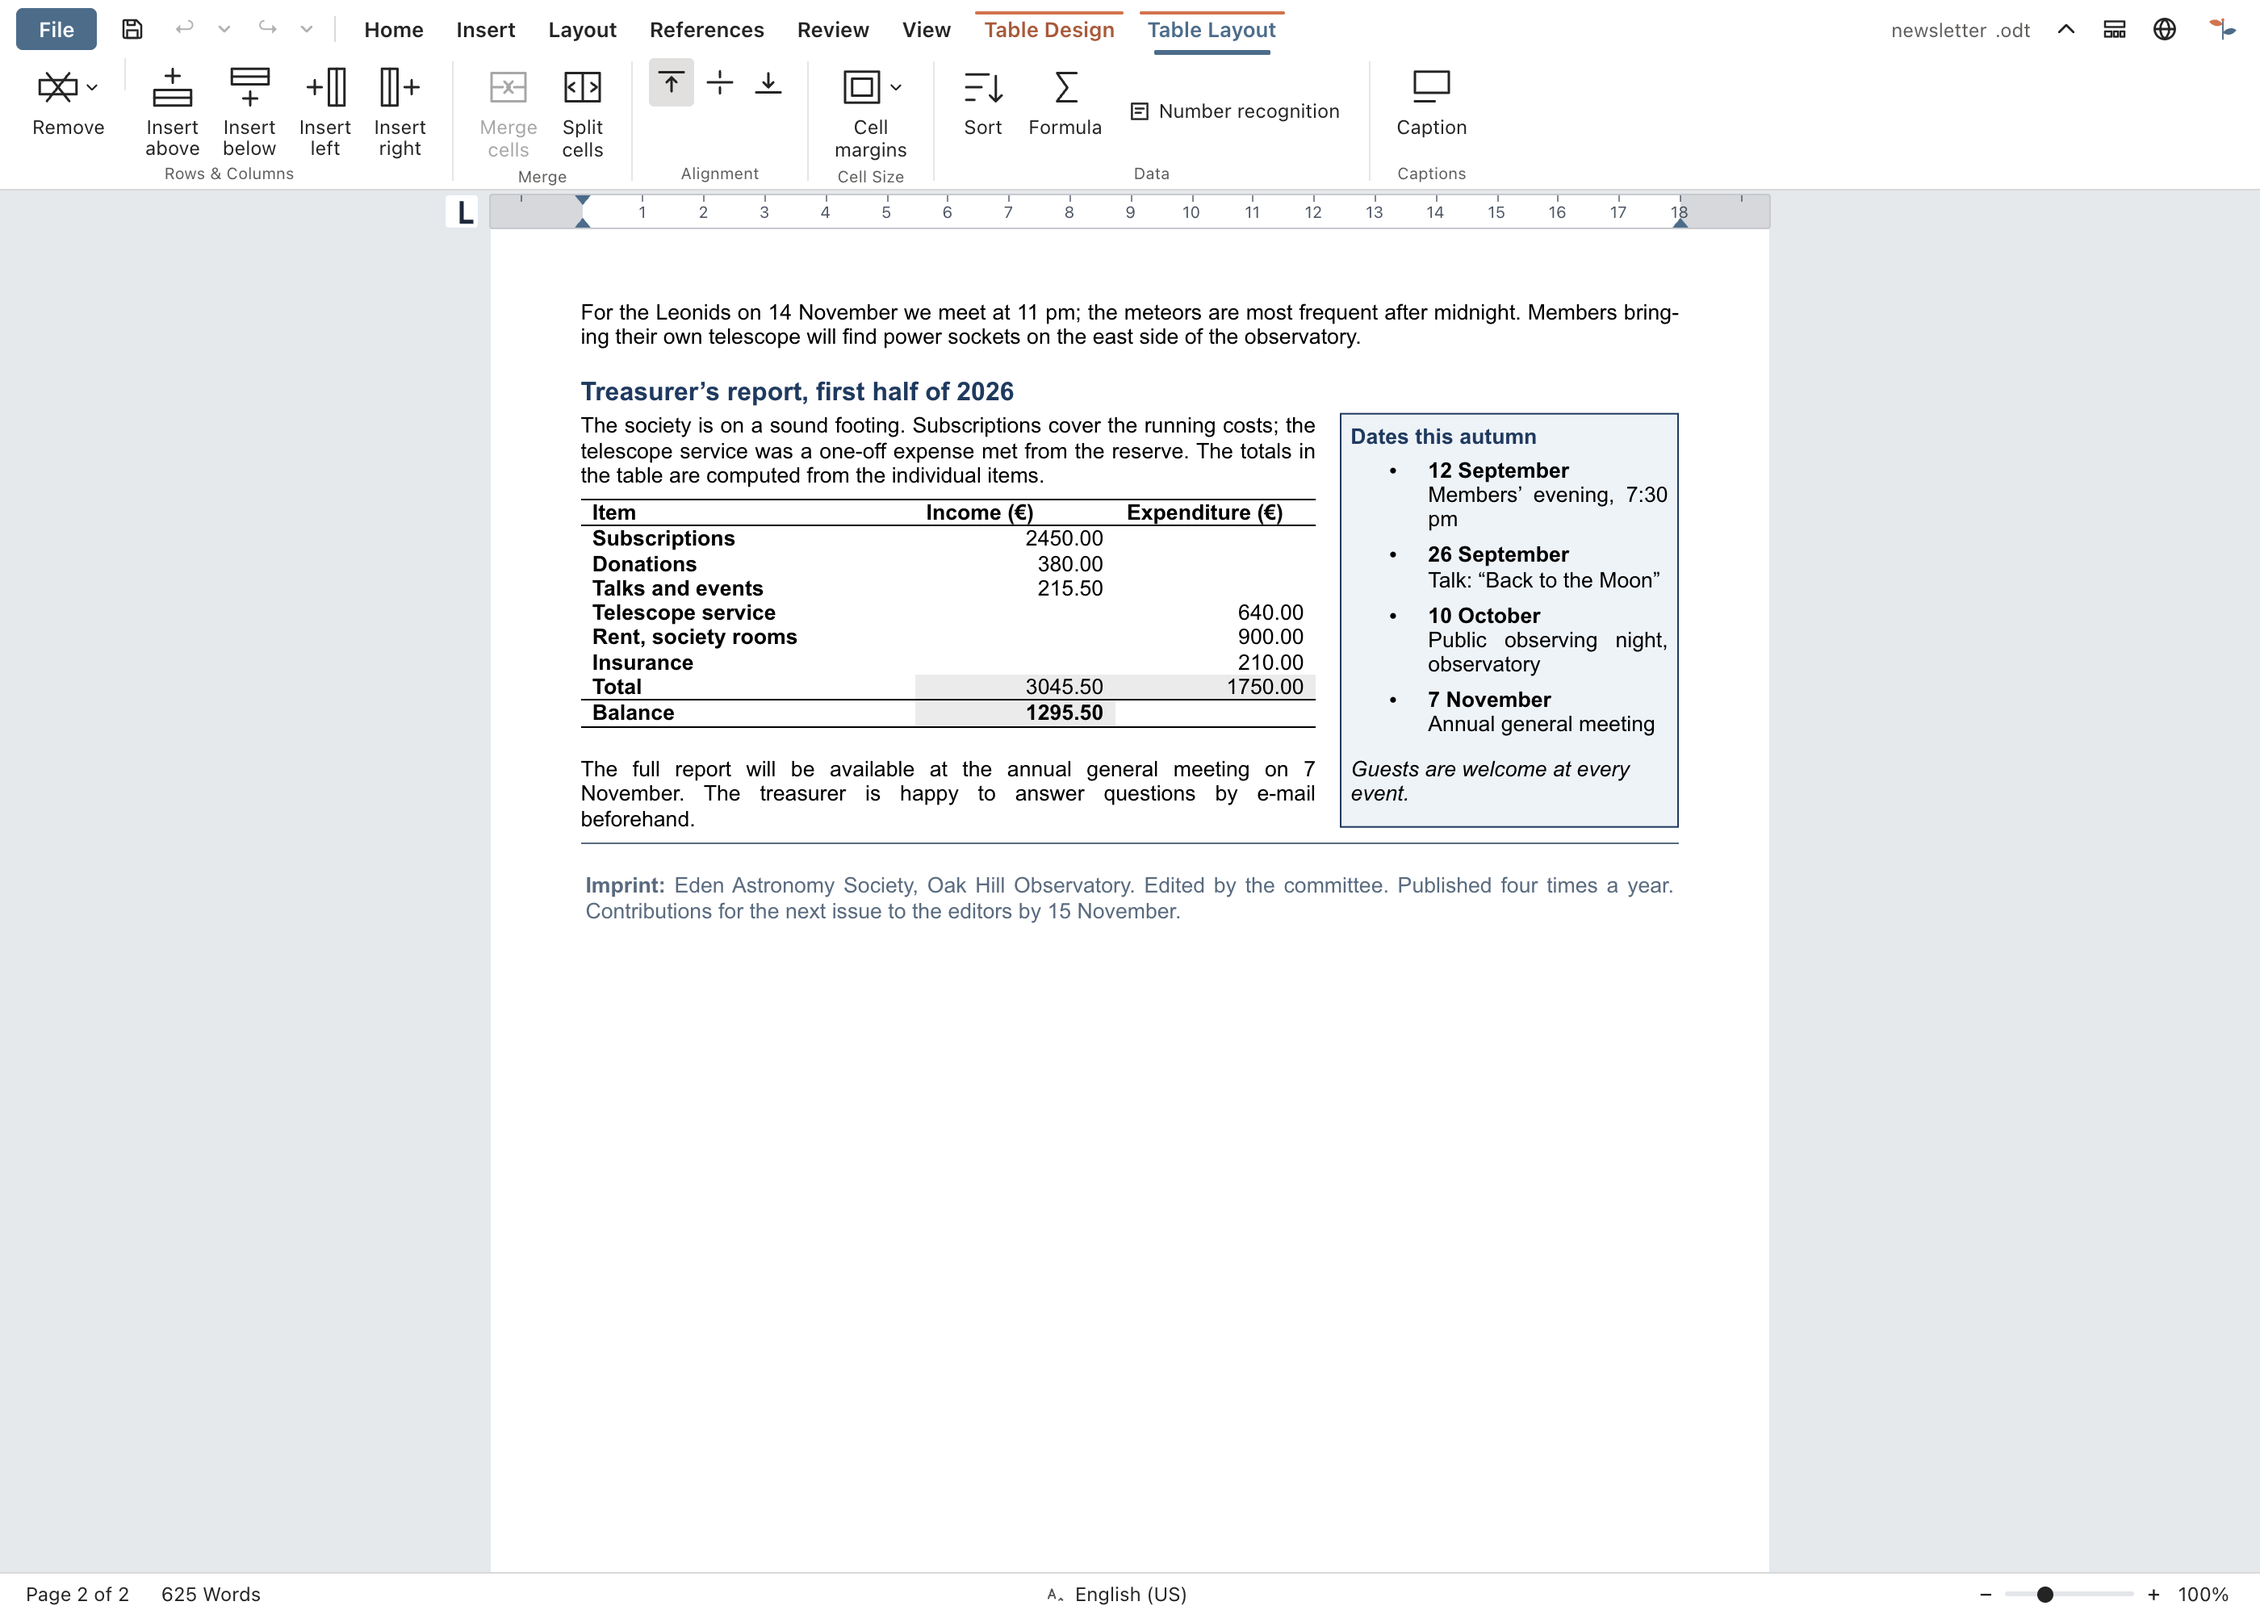
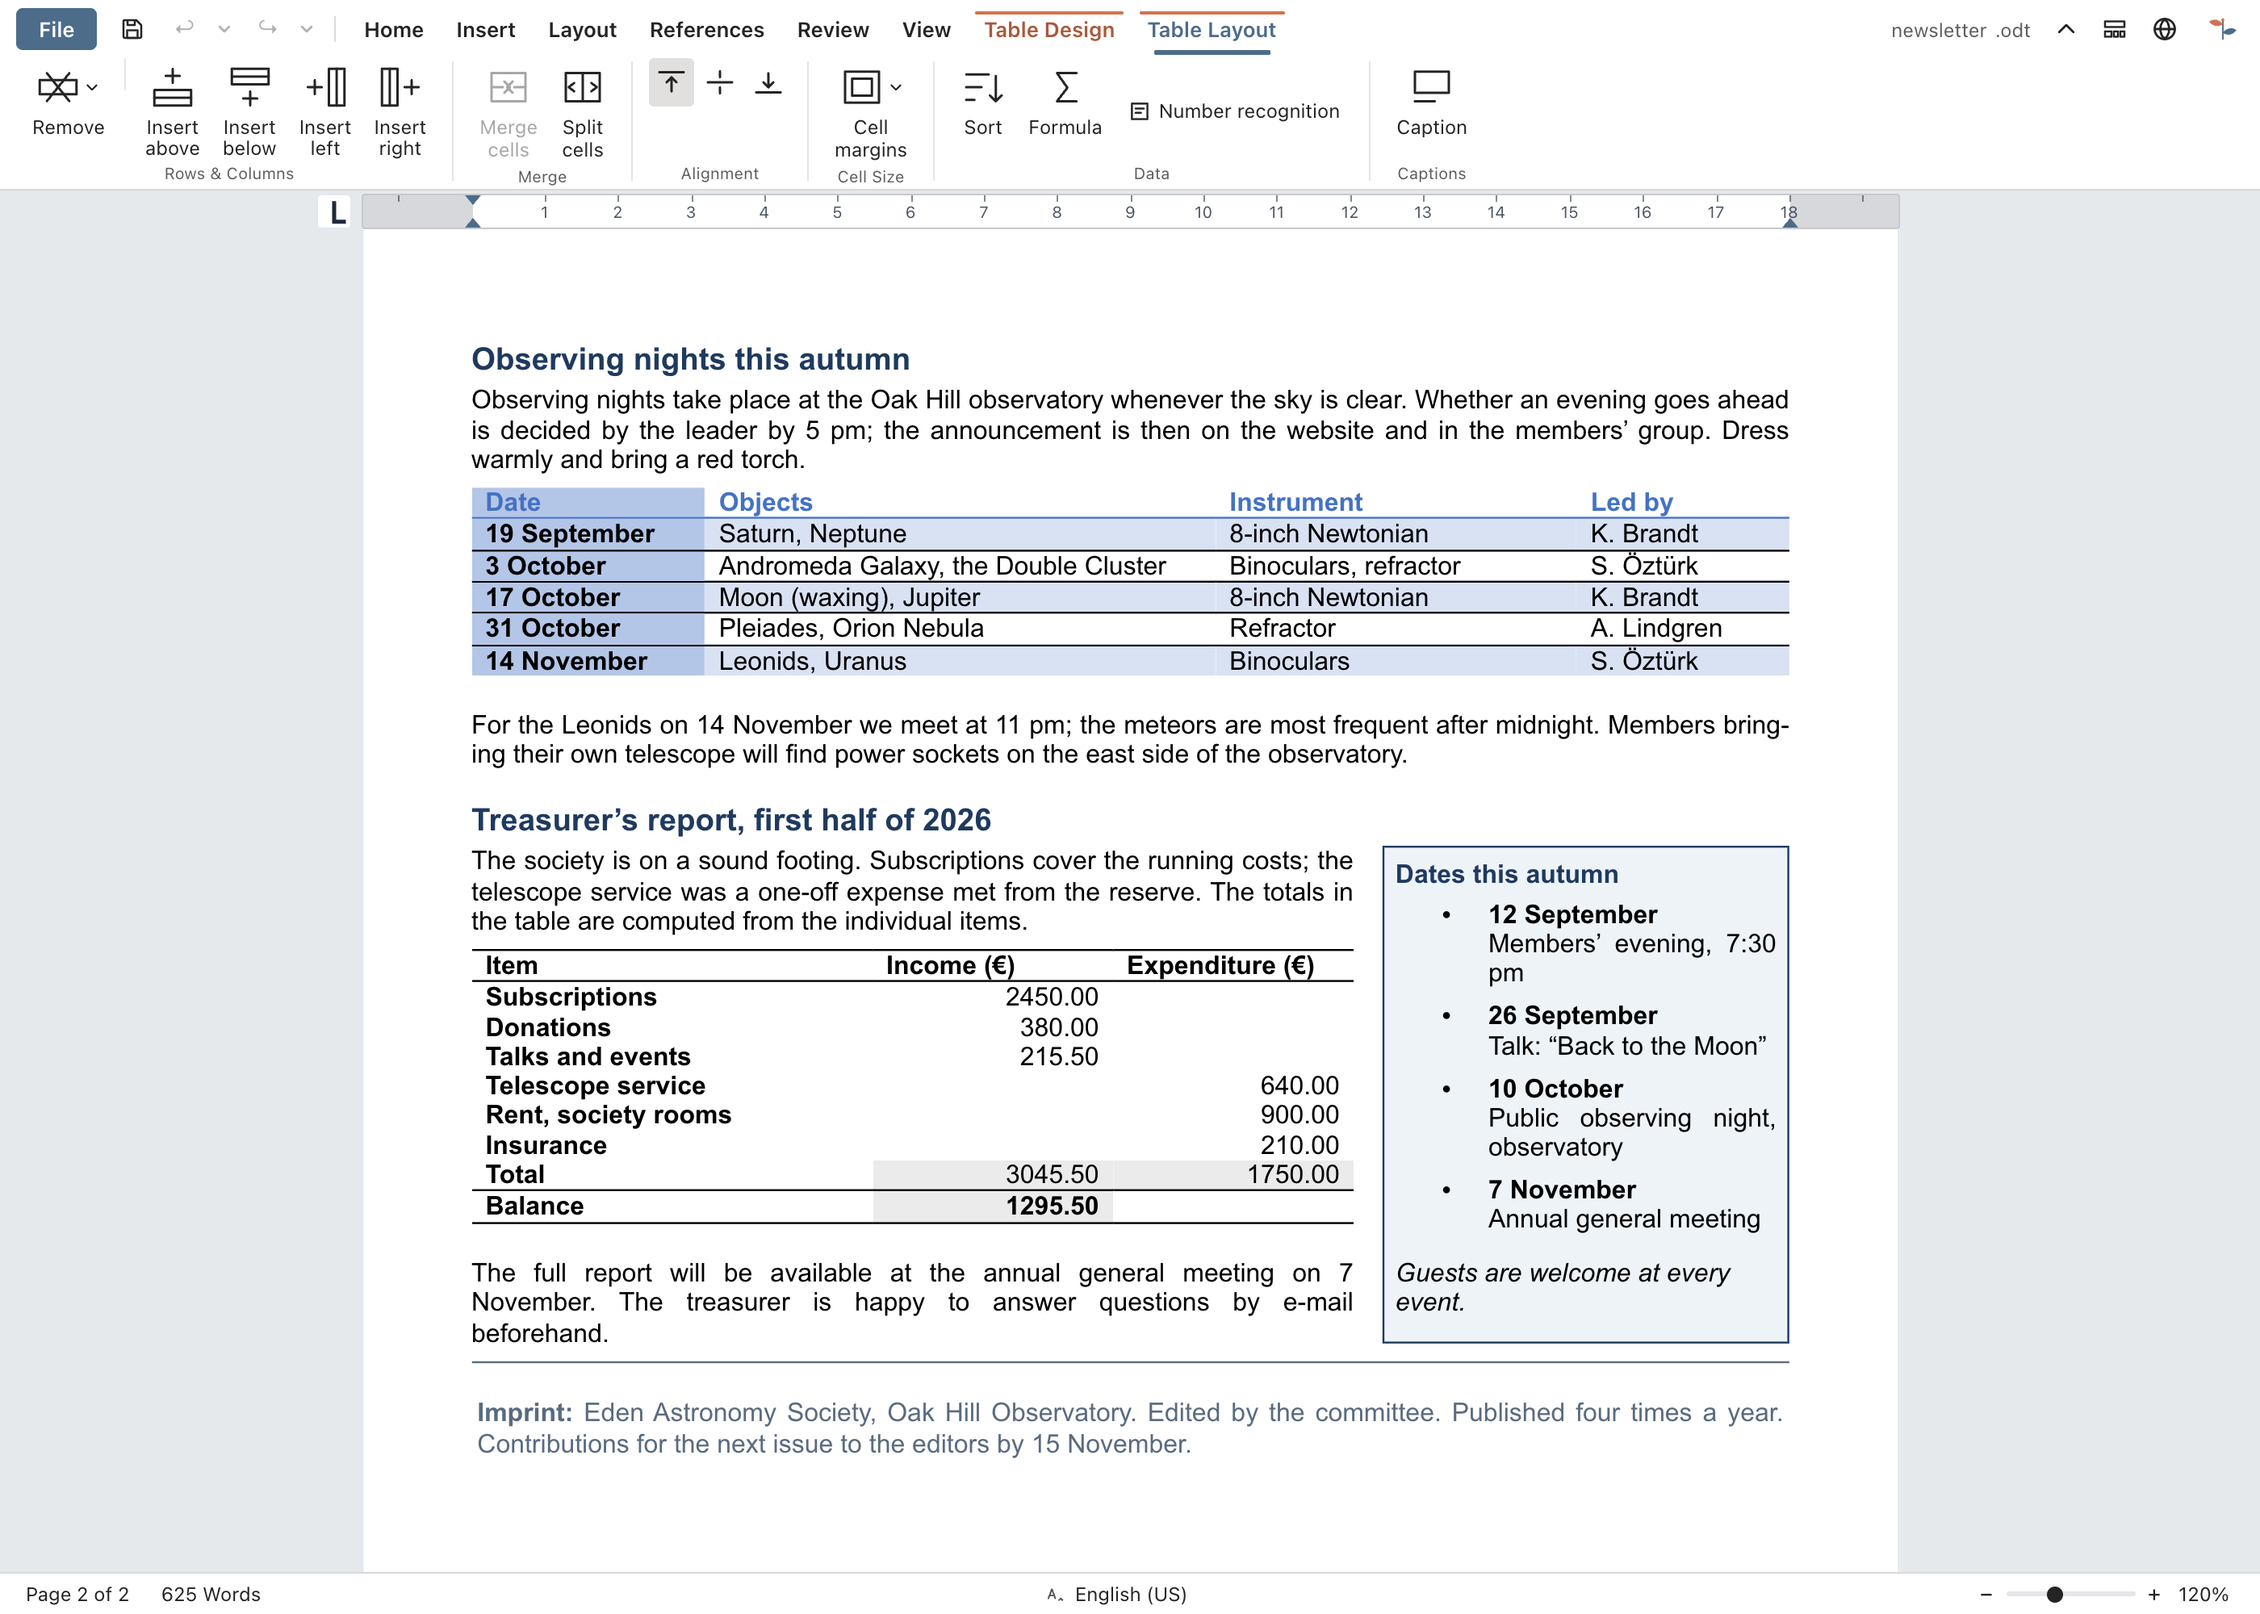
docs: the newsletter's schedule opens the second page
Both tables now sit on it, so the tables screenshot shows the page nearly full
instead of half white; the shot takes it at 120%.

Changed region(s): [[0.1243, 0.124, 0.8389, 0.992], [0.5593, 0.651, 0.5904, 0.744]]

diff --git a/scripts/showcase/newsletter.ts b/scripts/showcase/newsletter.ts
@@ -66,7 +66,8 @@ export async function build(): Promise<Showcase> {
       P(null, T('This month not a picture from the observatory but a historic one: the Earthrise that William Anders photographed in 1968 on the fourth orbit of the Moon. It fits the theme of the talk, and it is a reminder of why we look up in the first place.')),
     ),
 
-    H(2, T('Observing nights this autumn')),
+    // The schedule opens the second page, so both tables sit on it and the page fills.
+    { type: 'heading', attrs: { level: 2, breakBefore: 'page' }, content: [T('Observing nights this autumn')] },
     P(null, T('Observing nights take place at the Oak Hill observatory whenever the sky is clear. Whether an evening goes ahead is decided by the leader by 5 pm; the announcement is then on the website and in the members’ group. Dress warmly and bring a red torch.')),
     styledTable('List Table Accent', [
       ['Date', 'Objects', 'Instrument', 'Led by'],
@@ -113,7 +114,7 @@ export async function build(): Promise<Showcase> {
     props: { title: 'Newsletter 3/2026', subject: 'Eden Astronomy Society', author: 'The committee', keywords: 'astronomy, society', description: '' },
     shots: [
       { file: 'newsletter', page: 1, tab: 'layout' },
-      { file: 'newsletter-tables', page: 2, tab: 'tableLayout', caret: '.tiptap table td' },
+      { file: 'newsletter-tables', page: 2, zoom: 120, tab: 'tableLayout', caret: '.tiptap table td' },
     ],
   };
 }
